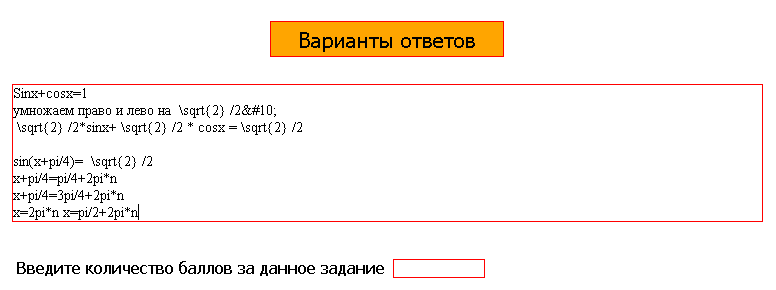
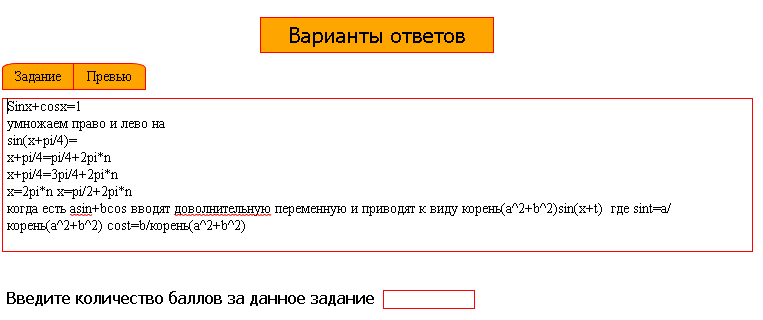
Меню при нажатии на 3 полоски

Changed region(s): [[0.0, 0.1862, 0.9948, 0.8069], [0.3316, 0.031, 0.6632, 0.2172], [0.0, 0.869, 0.633, 0.9931]]

diff --git a/style/Ccssfortest.css b/style/Ccssfortest.css
@@ -18,6 +18,56 @@ textarea{
 	overflow:hidden;
 	outline: none;
 	resize: auto;}/*настройка всех текстовых полей*/
+#task_menu_div{
+	
+	width: 98%;
+	margin: 0 auto;
+	margin-top: 10px;
+	height: 45px;
+}
+#task_menu{
+	width: 45px;
+	height: 45px;
+	border: 1px solid red;
+	float: right;
+	background-color: orange;
+	opacity: 0.8;
+	
+}
+#task_menu_open{
+	padding-top: 10px;
+	width: 100%;
+	height: 35px;
+	display: block;
+	position: relative;
+
+}
+#task_menu_open:hover{
+	opacity: 1;
+	background-color: darkorange;
+	cursor: pointer;
+}
+#task_menu_open{
+	text-align: center;
+}
+.bars_image{
+	
+	font-size: 25px;
+}
+#task_menu_body{
+	position: absolute;
+	top: 60px;
+	right: 10px;
+	width: 200px;
+	height: auto;
+	max-height: 600px;
+	min-height: 100px;
+	border: 1px solid red;
+	background-color: white;
+	
+	
+	
+}
 .main_text{
 	margin-top: 20px;	
 	margin-left: 2%;
@@ -314,6 +364,7 @@ div[class="icontest"]{
 	font-weight: 1000;
 	background-color: orange;
 	border: 1px solid red;
+	
 }
 .form_btn:hover{
 	transition: all 0.7s ease;
@@ -404,7 +455,7 @@ div[class="icontest"]{
 #uploadPreview{
 	margin-top: 30px;}
 .text_answer{
-	margin-top: 30px;}
+	margin-top: 20px;}
 /*Кнопки*/
 .formul_buttons{
 	cursor: pointer;

diff --git a/createtest.html.php b/createtest.html.php
@@ -174,10 +174,26 @@
 			}
 		}		
 	</script>
+	<script type="text/javascript">
+	$(document).ready(function(){
+		
+		$('#task_menu_open').click(function(){
+			$('#task_menu_body').stop().slideToggle(10);
+		});
+	});
+	</script>
 </head>
 <body  >
 	<div id="page">
 		<div id="main_content"><!--  Основной див  сайта -->
+			<div id="task_menu_div">
+				<div id="task_menu">
+					<div id="task_menu_open">
+						<p class="bars_image"><i class="fa fa-bars" aria-hidden="true"></i></p>
+					</div>
+					
+				</div>
+			</div>
 			<?php if (isset($_COOKIE['name'])&&isset($_COOKIE['surname'])):?>
 				<form action="createtest_handler.php" method="post" enctype="multipart/form-data" >
 					<div class="content_form">
@@ -268,7 +284,11 @@
 						</div>
 					</div>
 								
-						<p class="text_title">Варианты ответов</p>						
+						<p class="text_title">Варианты ответов</p>	
+					<div class="prev_menu">
+						<input type="button" class="task_show" value="Задание">
+						<input type="button" class="formul_preview" value="Превью" class="prev_btn" onclick="convert()">
+					</div>					
 					<div class="areatext">
 						<textarea oninput="auto_grow(this)" name="task[textarea_answer]" id="answer" style="resize:none" class="text_answer">
 						</textarea><!--  Развернутый ответ -->
@@ -426,8 +446,13 @@
 						<input type="text" maxlength="6" class="points" onkeyup="enterPoints(this)">
 					</div>
 				</div>
+					<div id="task_menu_body" style="display: none;">
+						<p>GHBDTn</p>
+					</div>
 			</div>
+
 		</div>
+		
 	</div>
 		<div class="slider midle"><!--  Слайдер -->
 			<div class="slides"><!--  Радиокнопки и изображения -->
